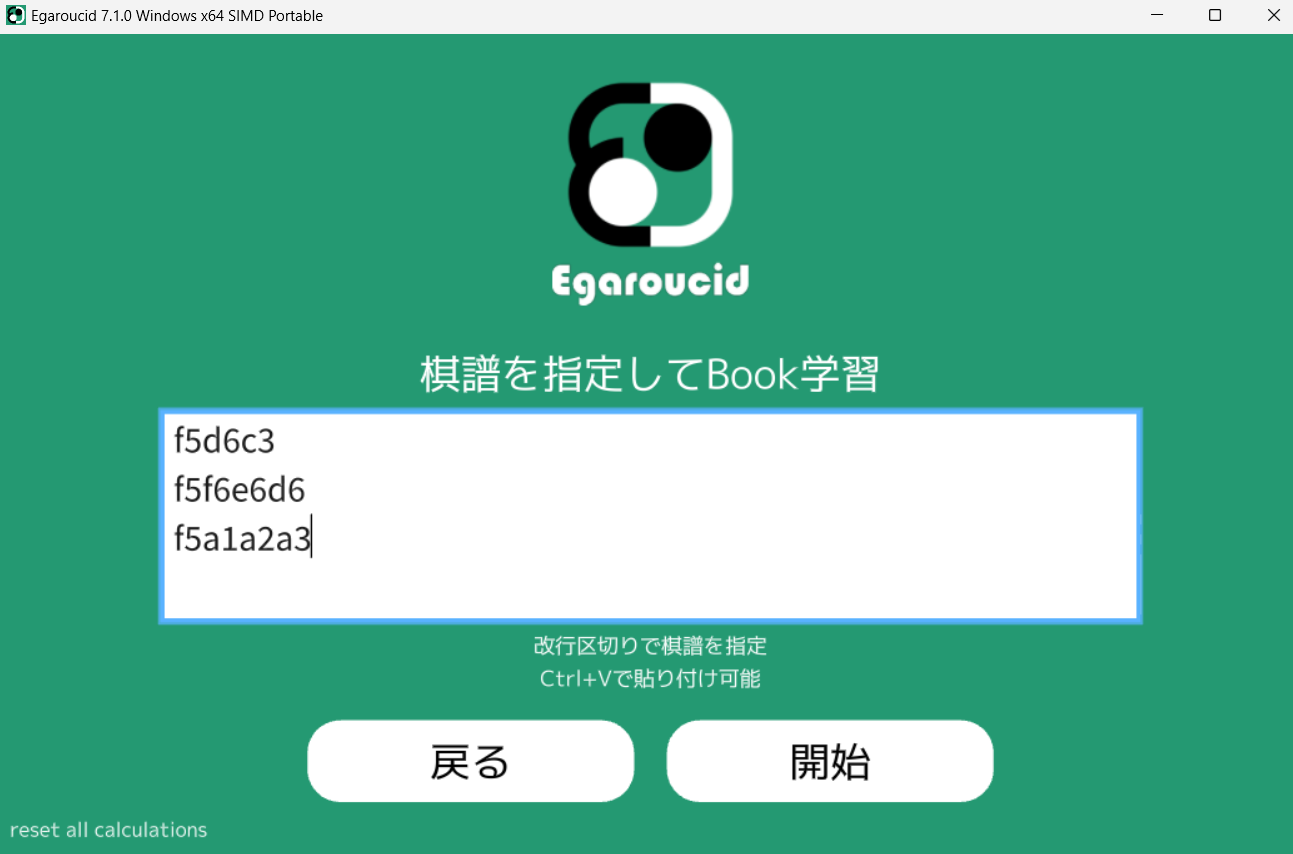
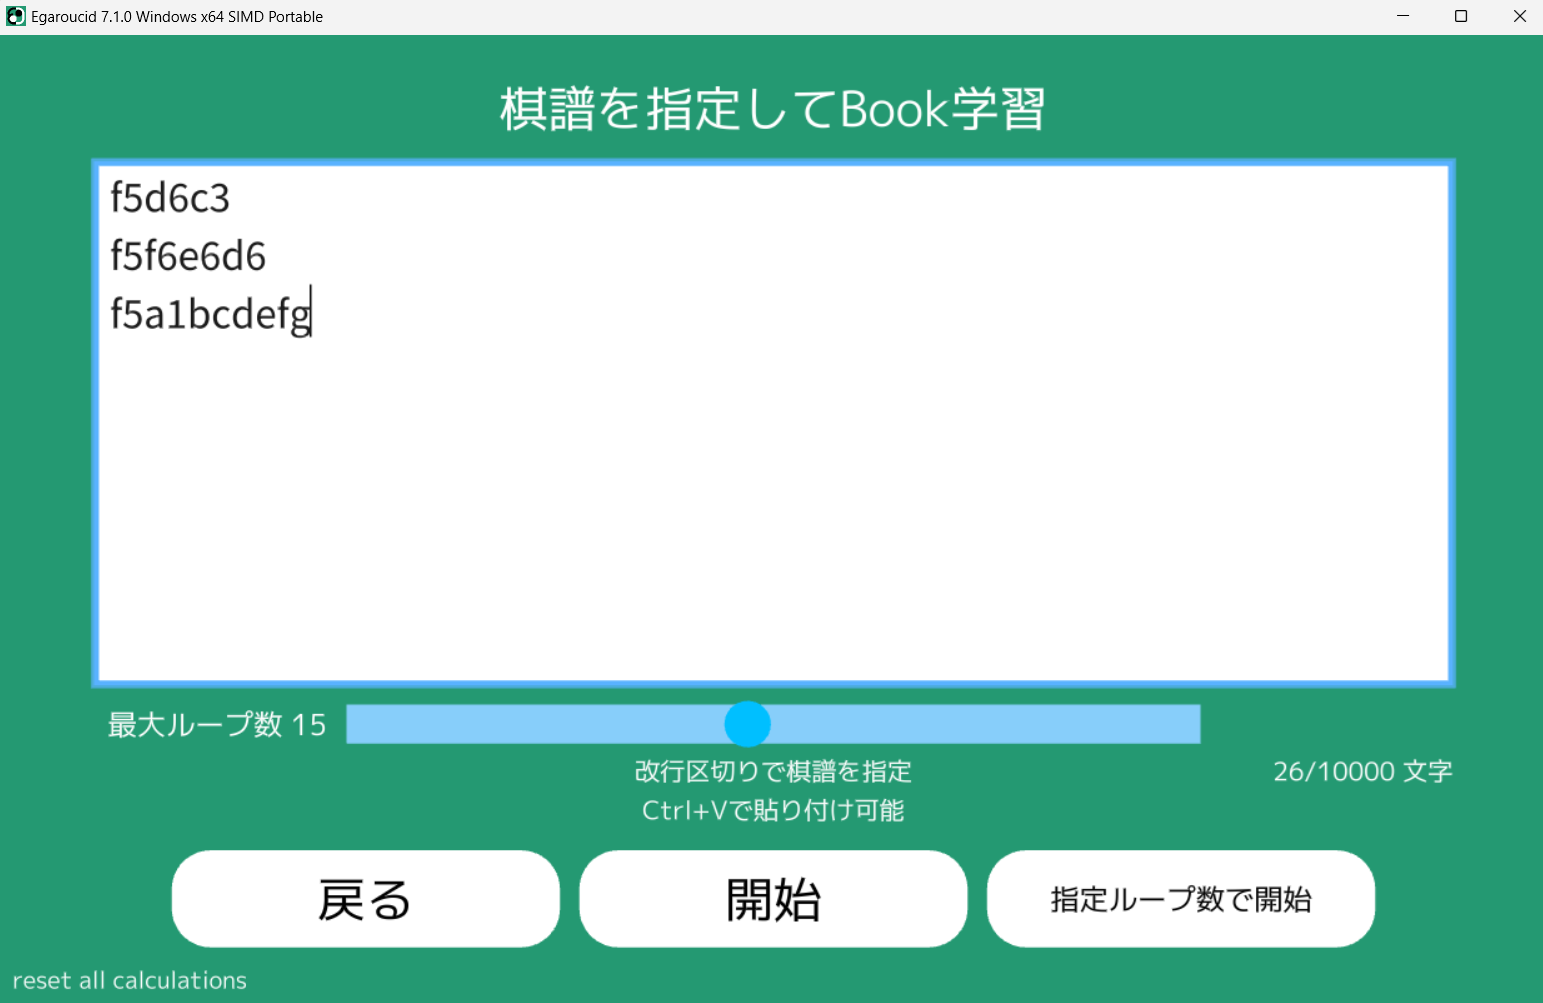
update usage, #235

diff --git a/web_resources/ja/usage/index.md b/web_resources/ja/usage/index.md
@@ -908,7 +908,9 @@ bookにはリーフという概念があり、「これはbookに登録されて
 
 この機能はバージョン7.1.0で搭載した機能です。上記のBook学習では学習を開始する局面を自分で設定する必要がありましたが、この機能では学習を開始する局面を棋譜として複数設定し、それらを順番に学習していく機能です。学習開始局面がbookに登録されていない局面の場合、開始局面に至る棋譜の中で最後にbookに登録された値を使って開始局面まで自動でbookに登録します。
 
-下図のように棋譜を改行区切りで入力し、開始ボタンを押すと学習が開始されます。そのとき、棋譜に間違いがあるとエラーが出ます。エラーとなった行が表示されるので、戻るボタンを押して棋譜を修正してください。棋譜のリストは合計で10000文字までの制限があります。
+下図のように棋譜を改行区切りで入力し、開始ボタンを押すと学習が開始されます。このとき、真ん中の「開始」ボタンを押すと通常のbook学習が始まりますが、右の「指定ループ数で開始」を押すと、指定したループ数だけ学習を行います。このループ数とは、book学習処理を何回行うかの指標です。何も指定しなければ(通常の学習では)無限大となりますが、指定することで学習時間を短縮できます。ただ、そのかわりにbookのミスが増える可能性があります。通常は15程度で良いと感じているため、このオプションをつけました。
+
+開始ボタンを押すとまず棋譜に間違いがないかチェックし、棋譜に間違いがあるとエラーが出ます。エラーとなった行が表示されるので、戻るボタンを押して棋譜を修正してください。棋譜のリストは合計で10000文字までの制限があります。
 
 <div class="centering_box">
     <img class="pic2" src="img/book_deviate_with_transcript.png">
